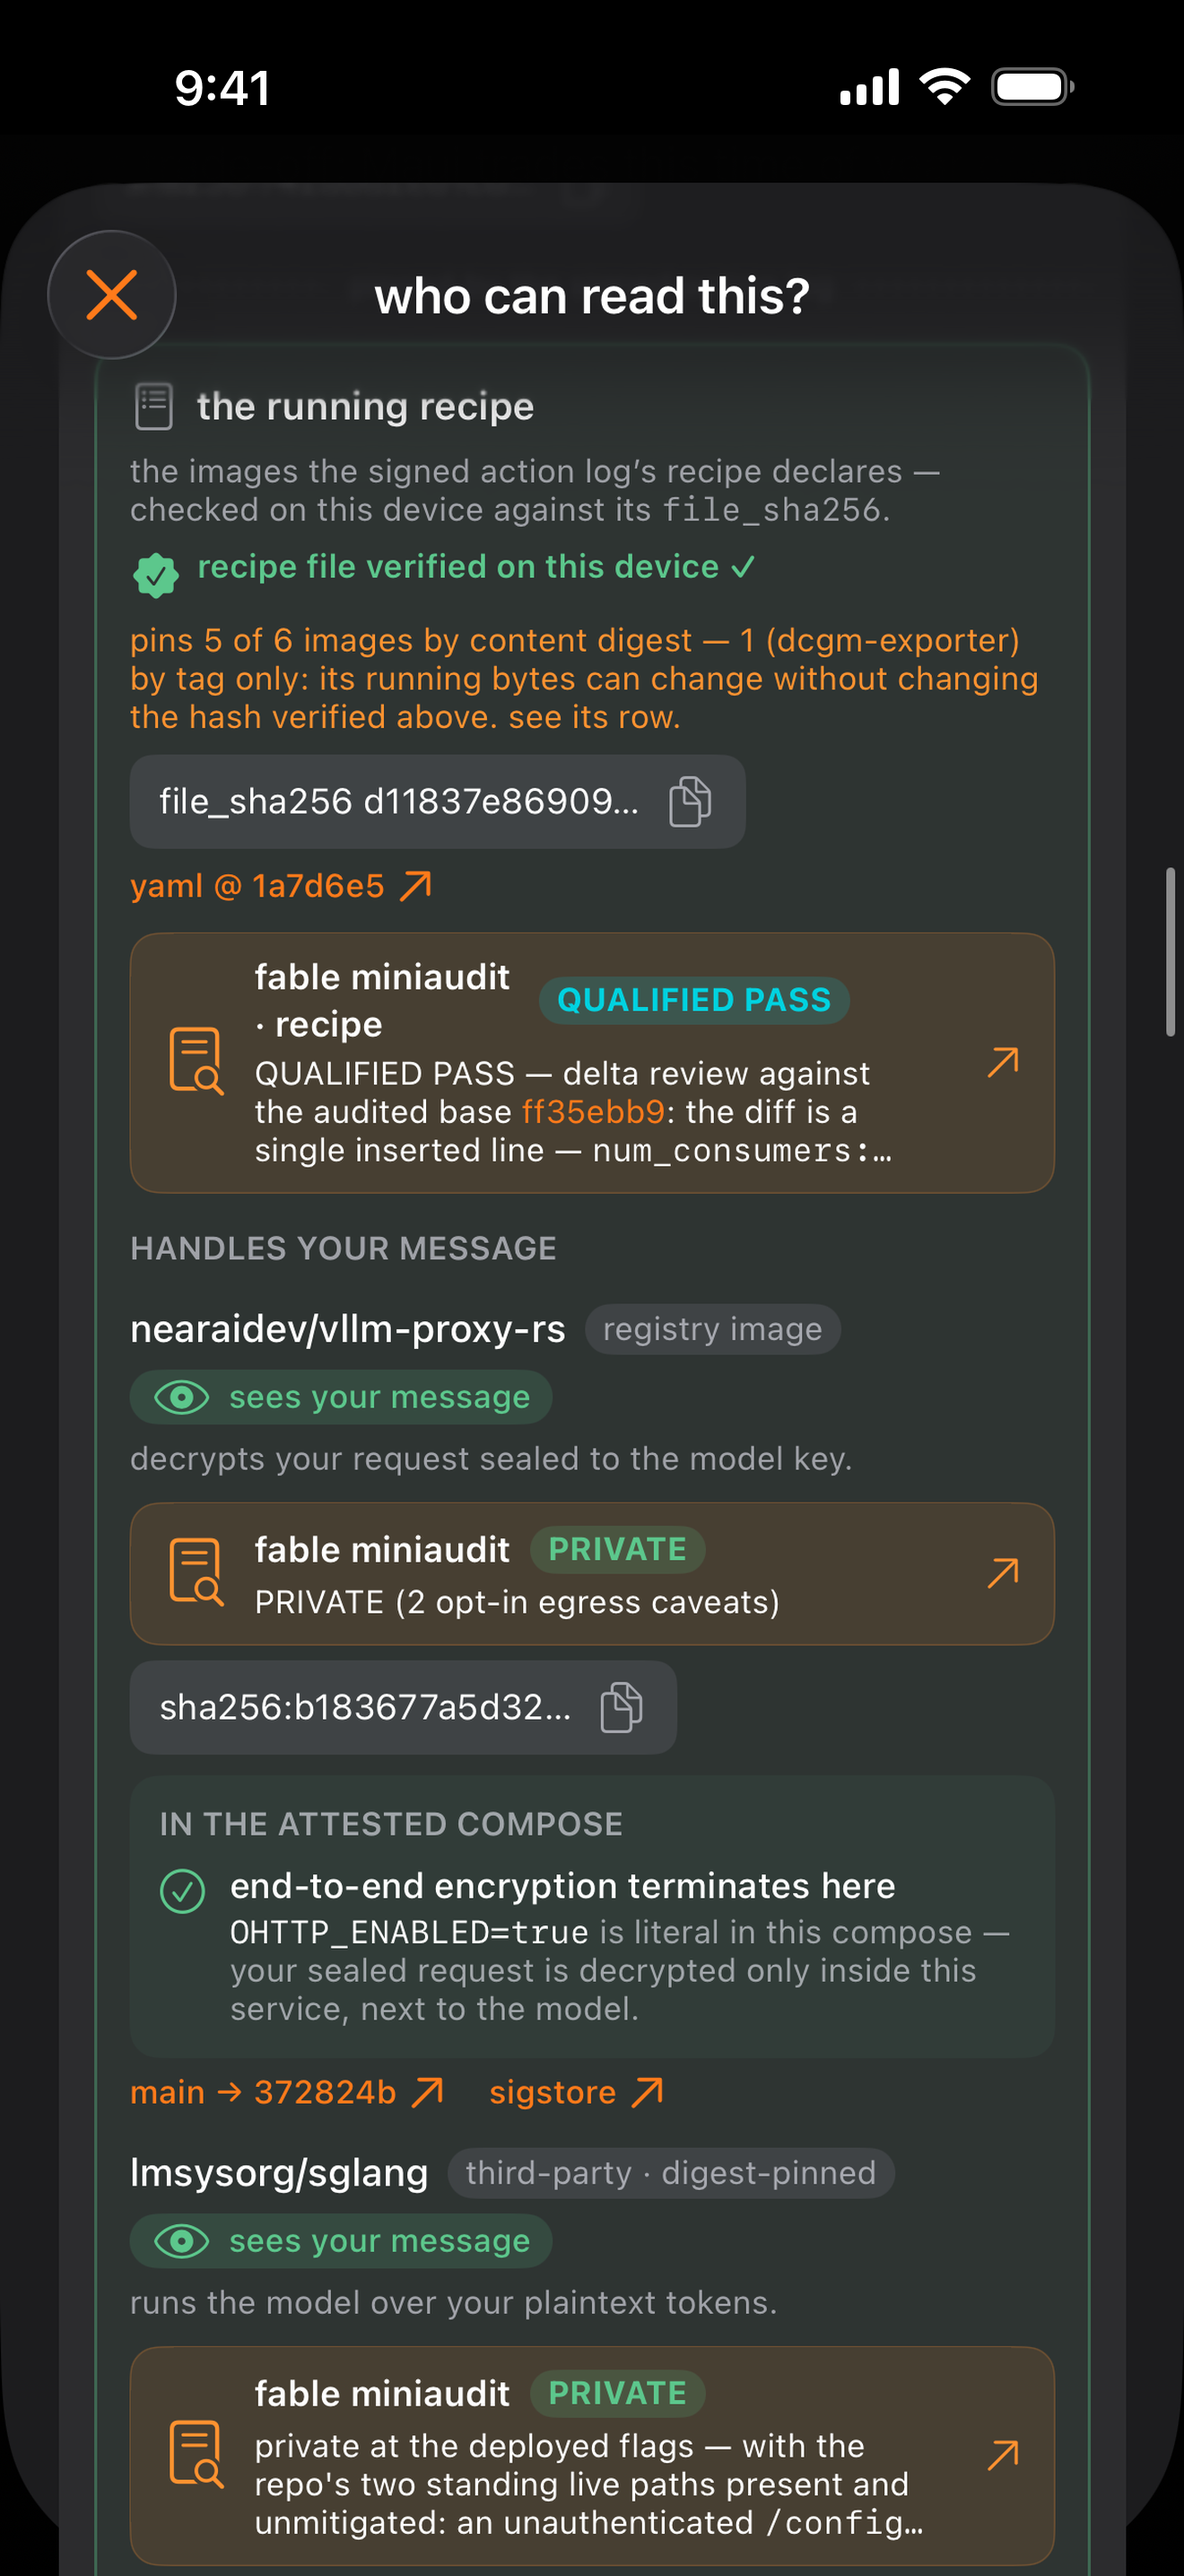
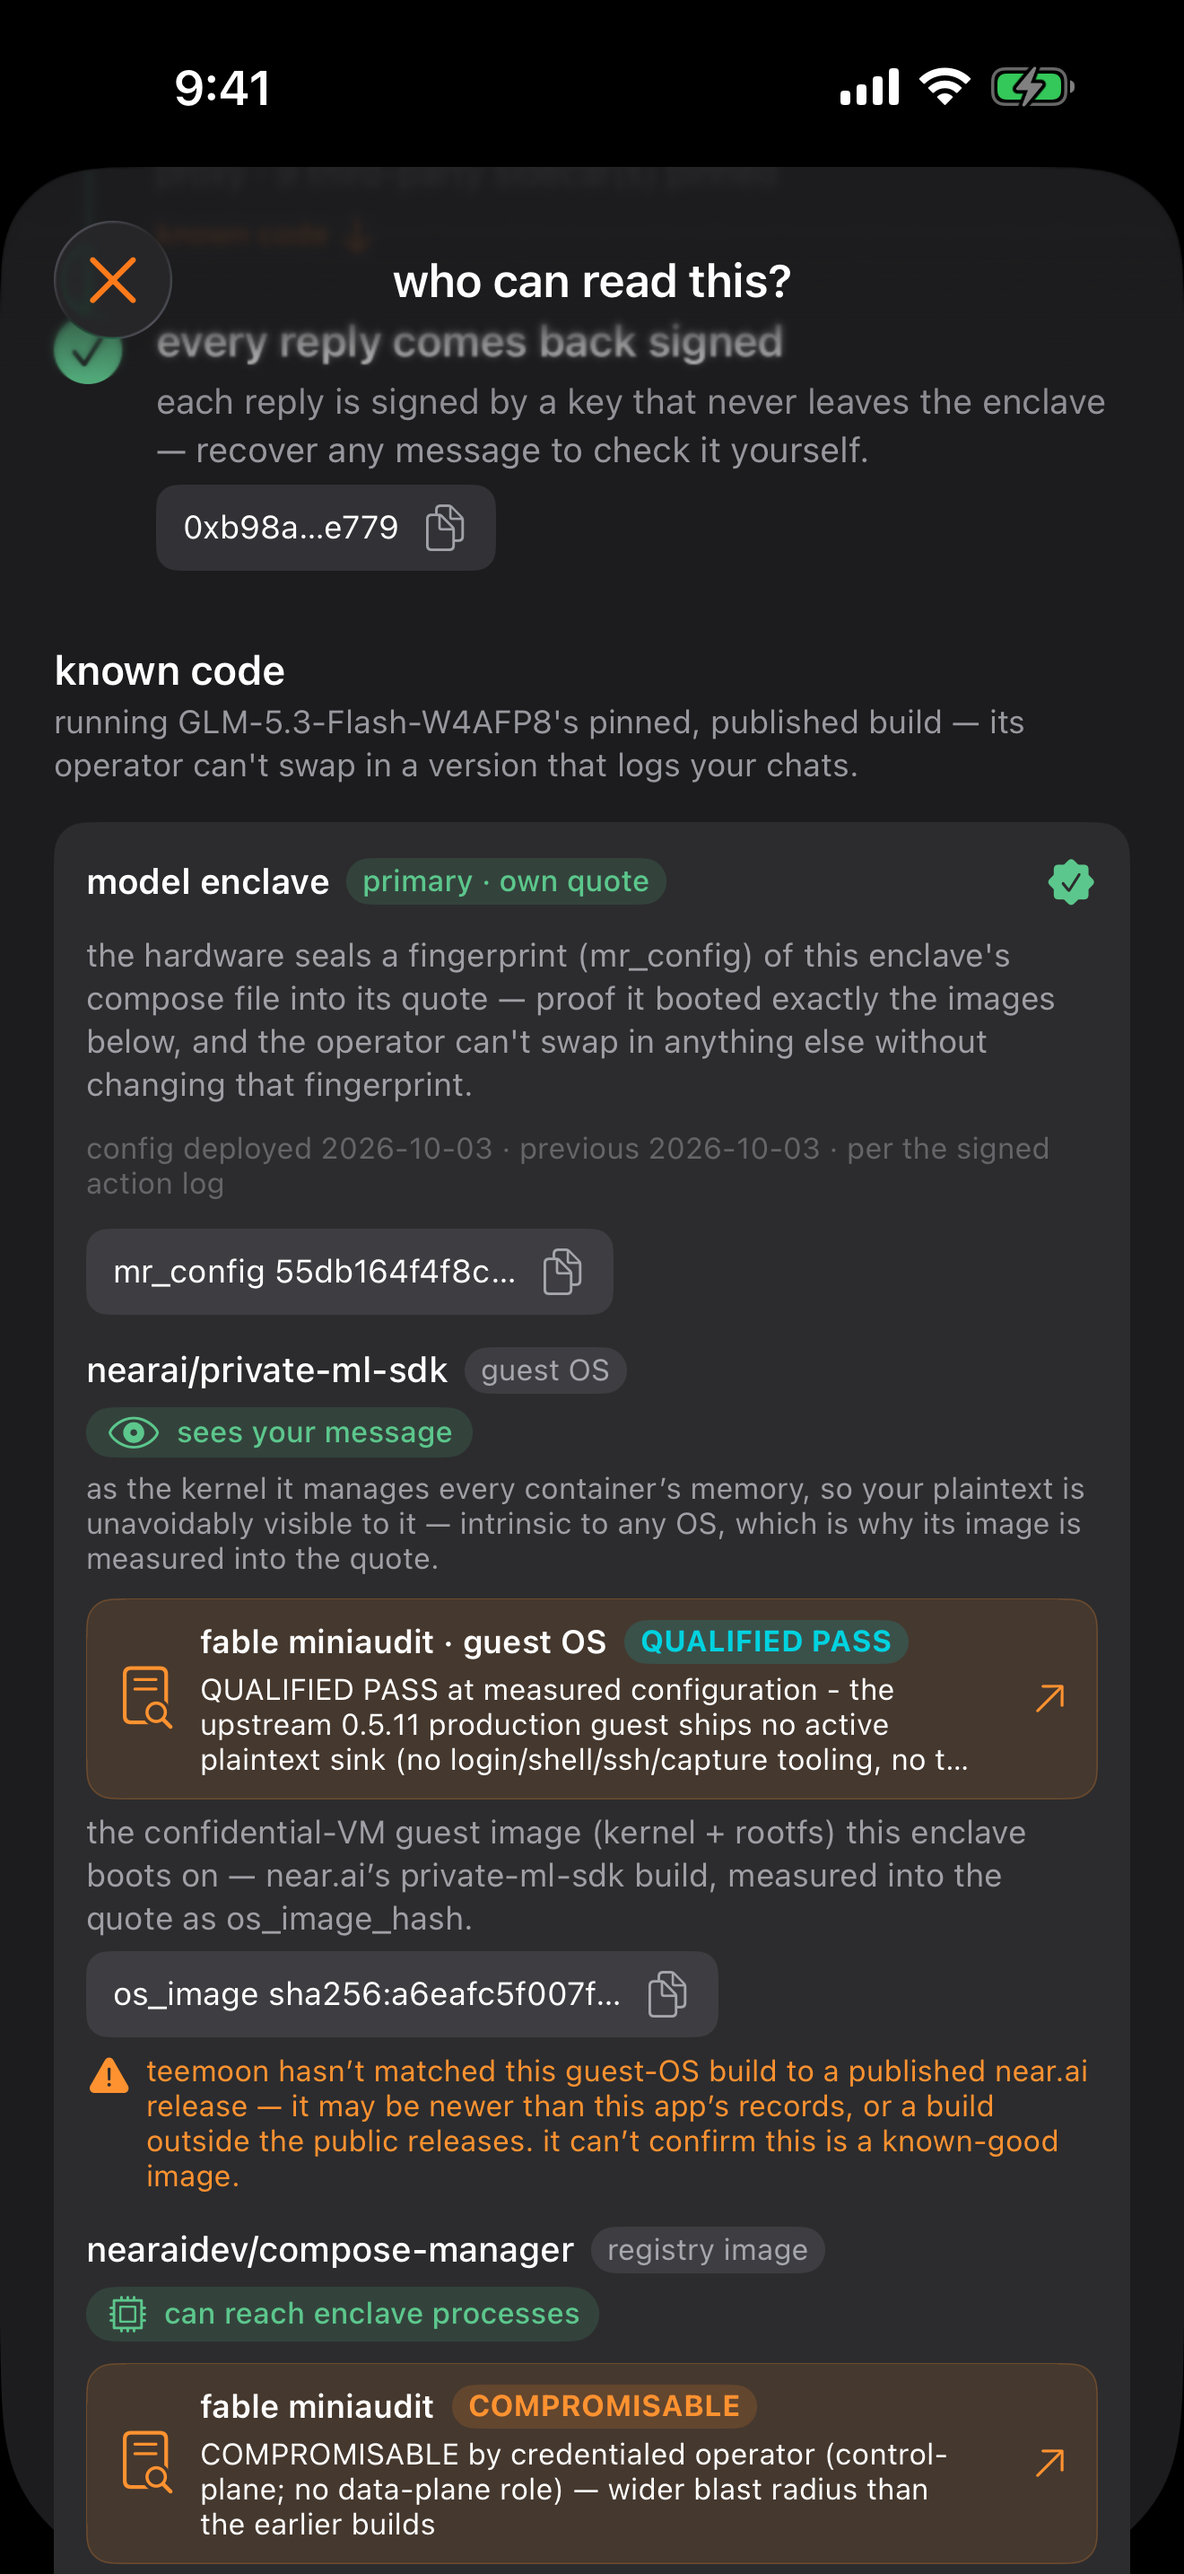
docs: ATTESTATION proof frames on GLM-5.3-Flash, as the app shows them today
GLM-5.1 is retired. The everyday and expert views are re-shot on
GLM-5.3-Flash-W4AFP8, whose sheet now reads "encrypted to GLM-5.3-Flash-W4AFP8
— but its logs copy what you type": the seal holds, and a review of this exact
build found messages copied into the operator's monitoring logs. The expert
frames show the known code (guest OS QUALIFIED PASS, an unmatched guest-OS
build, compose-manager COMPROMISABLE) and the running recipe with sglang's
LEAKS verdict.

diff --git a/ATTESTATION.md b/ATTESTATION.md
@@ -37,11 +37,11 @@ check blocks the send:
   <tr>
     <td align="center">
       <img src="assets/proof.png" width="250"
-           alt="The everyday proof view: encrypted to GLM-5.1, only it can read this; a step-by-step ladder — your message readable only here, sealed to the enclave's key, the pinned published build (a swap would show up as a mismatch), an honest 'not everything here has been reviewed yet' rung, and per-reply signatures.">
+           alt="The everyday proof view, orange: encrypted to GLM-5.3-Flash-W4AFP8, but its logs copy what you type. The seal holds on the way in, but a review of this exact build found messages copied into the operator's monitoring logs; the ladder shows the message sealed so only the model can open it and the real published build, both green, then an orange step: this setup copies what you type into its operator's logs.">
     </td>
     <td align="center">
       <img src="assets/proof-expert.png" width="250"
-           alt="The expert proof view, top: the Ed25519 encryption-target key and the key bound in the model's TDX quote report_data.">
+           alt="The expert proof view, top: the same orange verdict, then the Ed25519 encryption-target key and the key bound in the model's TDX quote report_data, both green.">
     </td>
   </tr>
   <tr>
@@ -51,16 +51,16 @@ check blocks the send:
   <tr>
     <td align="center">
       <img src="assets/proof-expert-2.png" width="250"
-           alt="The expert view, per component: the running recipe verified on this device against its file_sha256, a Fable miniaudit QUALIFIED PASS on the recipe delta, vllm-proxy-rs decrypting your sealed request (miniaudit PRIVATE, two opt-in egress caveats), where end-to-end encryption terminates, and sglang running the model over your plaintext (its own miniaudit PRIVATE).">
+           alt="The expert view, known code: the model enclave verified by its own quote; the guest OS (nearai/private-ml-sdk), which sees your message, with a Fable miniaudit QUALIFIED PASS and an orange warning that teemoon has not matched this guest-OS build to a published near.ai release; and nearaidev/compose-manager, which can reach enclave processes, with a Fable miniaudit COMPROMISABLE by a credentialed operator.">
     </td>
     <td align="center">
       <img src="assets/proof-expert-3.png" width="250"
-           alt="The expert view continues: the running code traced to public source (nearai/compose-manager, dstack-vpc, inference-proxy, private-ml-sdk), per-reply signatures, and the model enclave's measured compose with a Fable miniaudit badge.">
+           alt="The expert view continues: compose-manager-launcher also COMPROMISABLE, then the running recipe verified on this device against its file_sha256; vllm-proxy-rs, which decrypts your sealed request, with a Fable miniaudit QUALIFIED PASS; where end-to-end encryption terminates; and sglang running the model over your plaintext, with a Fable miniaudit LEAKS.">
     </td>
   </tr>
   <tr>
-    <td align="center"><em>expert — the recipe checked, with Fable miniaudit verdicts</em></td>
-    <td align="center"><em>expert — every image traced to public source</em></td>
+    <td align="center"><em>expert — the known code, with Fable miniaudit verdicts</em></td>
+    <td align="center"><em>expert — the running recipe, and where the plaintext is</em></td>
   </tr>
 </table>
 
